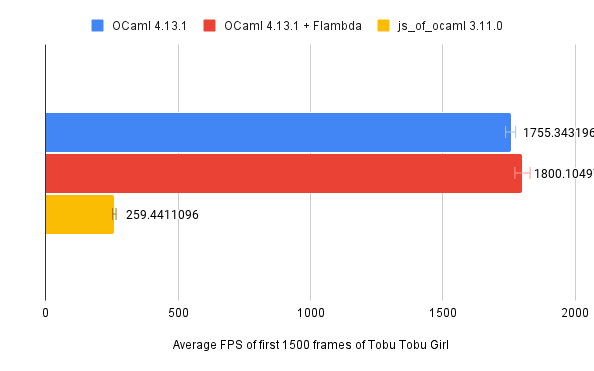
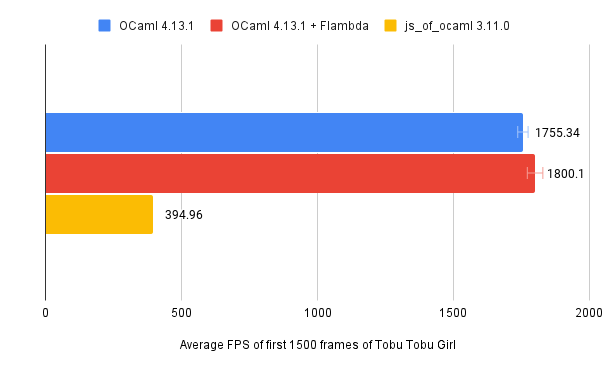
Reflect latest jsoo FPS benchmark improvement to README

diff --git a/benchmark.md b/benchmark.md
@@ -30,6 +30,9 @@ dune exec bin/sdl2/bench.exe -- resource/games/tobu.gb --frames 1500
 
 ### js_of_ocaml 3.11.0
 
+Note that for we pass `--no-inline` flag to js_of_ocaml ([source](bin/web/dune)) because disabling inlining improves the FPS significantly (more than 3 times).
+See [this thread in discuss.ocaml.org](https://discuss.ocaml.org/t/js-of-ocaml-output-performs-considerably-worse-when-built-with-profile-release-flag/8862/15?u=linoscope) for more details.
+
 ```sh
 opam switch 4.13.1
 eval $(opam env)
